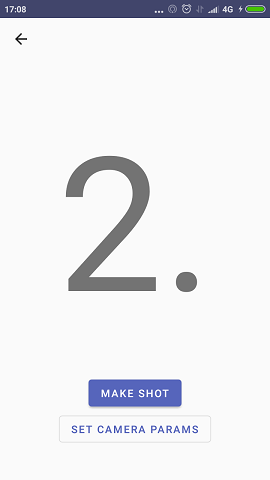
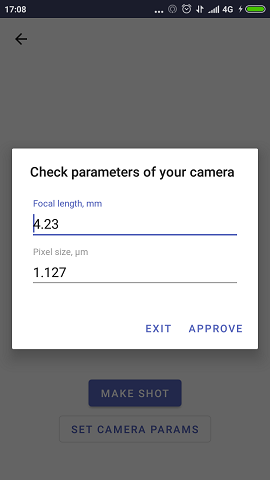
Add screenshot

diff --git a/README.md b/README.md
@@ -37,7 +37,7 @@ Communication with client is done via JSON.
 ![](Wiki/1.png)  |  ![](Wiki/2.png)
 ![](Wiki/3.png)  |  ![](Wiki/4.png)
 ![](Wiki/5.png)  |  ![](Wiki/6.png)
-![](Wiki/7.png)  | 
+![](Wiki/7.png)  |  ![](Wiki/8.png)
 
 ## License
 
